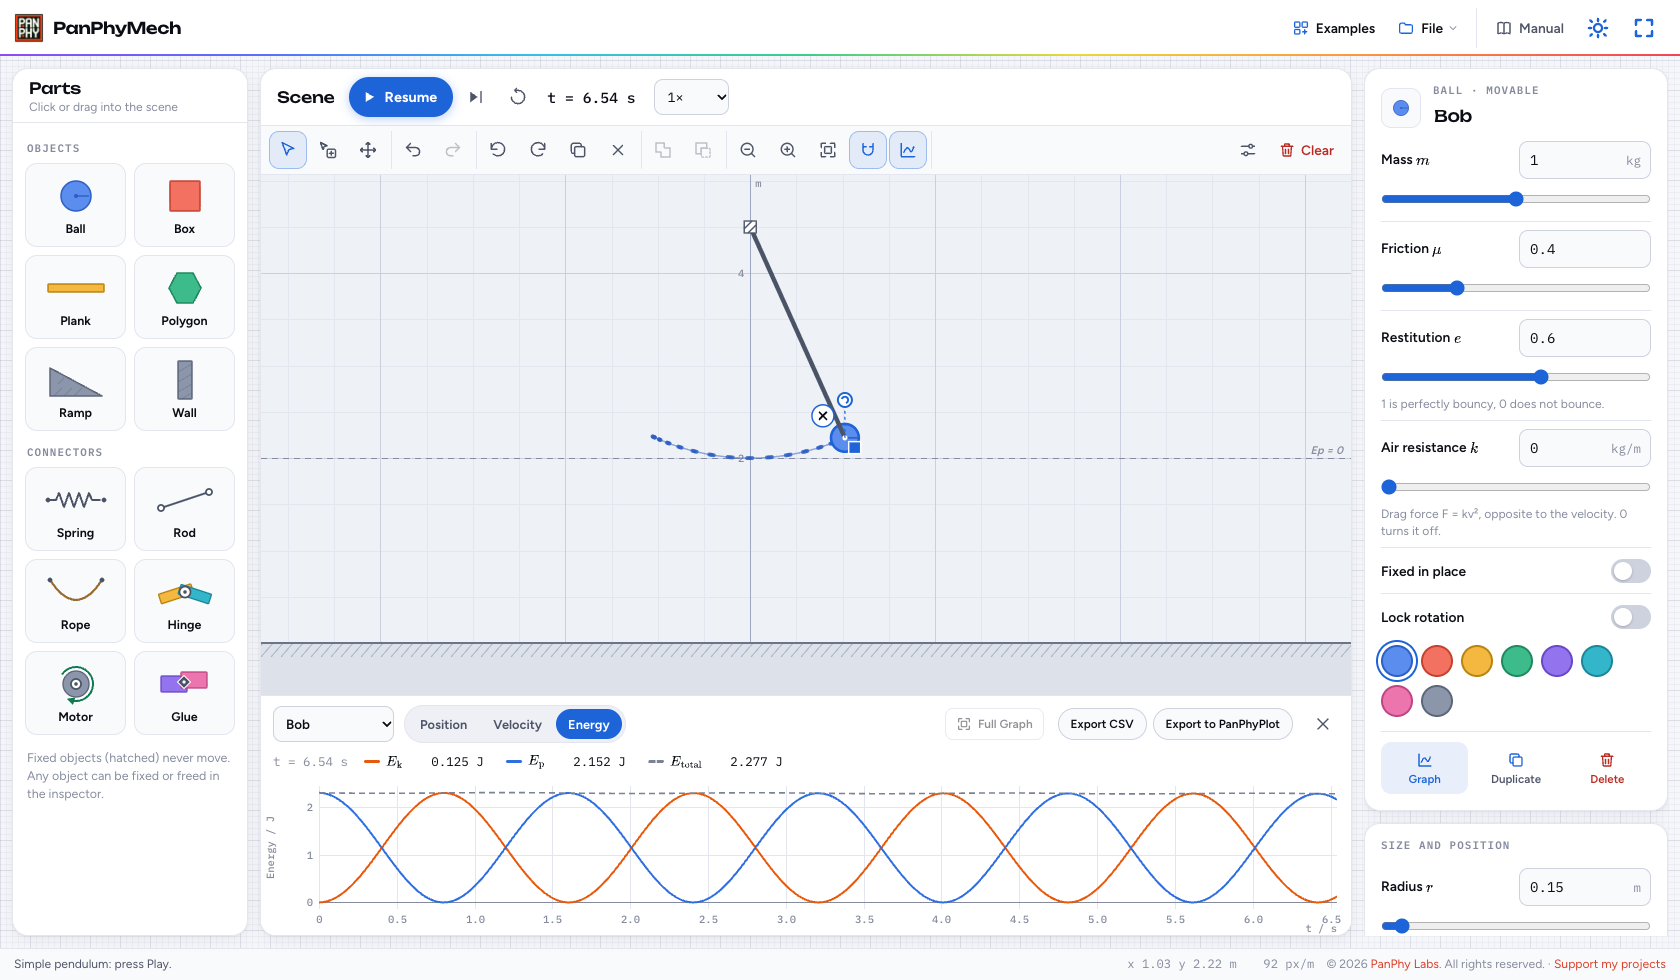
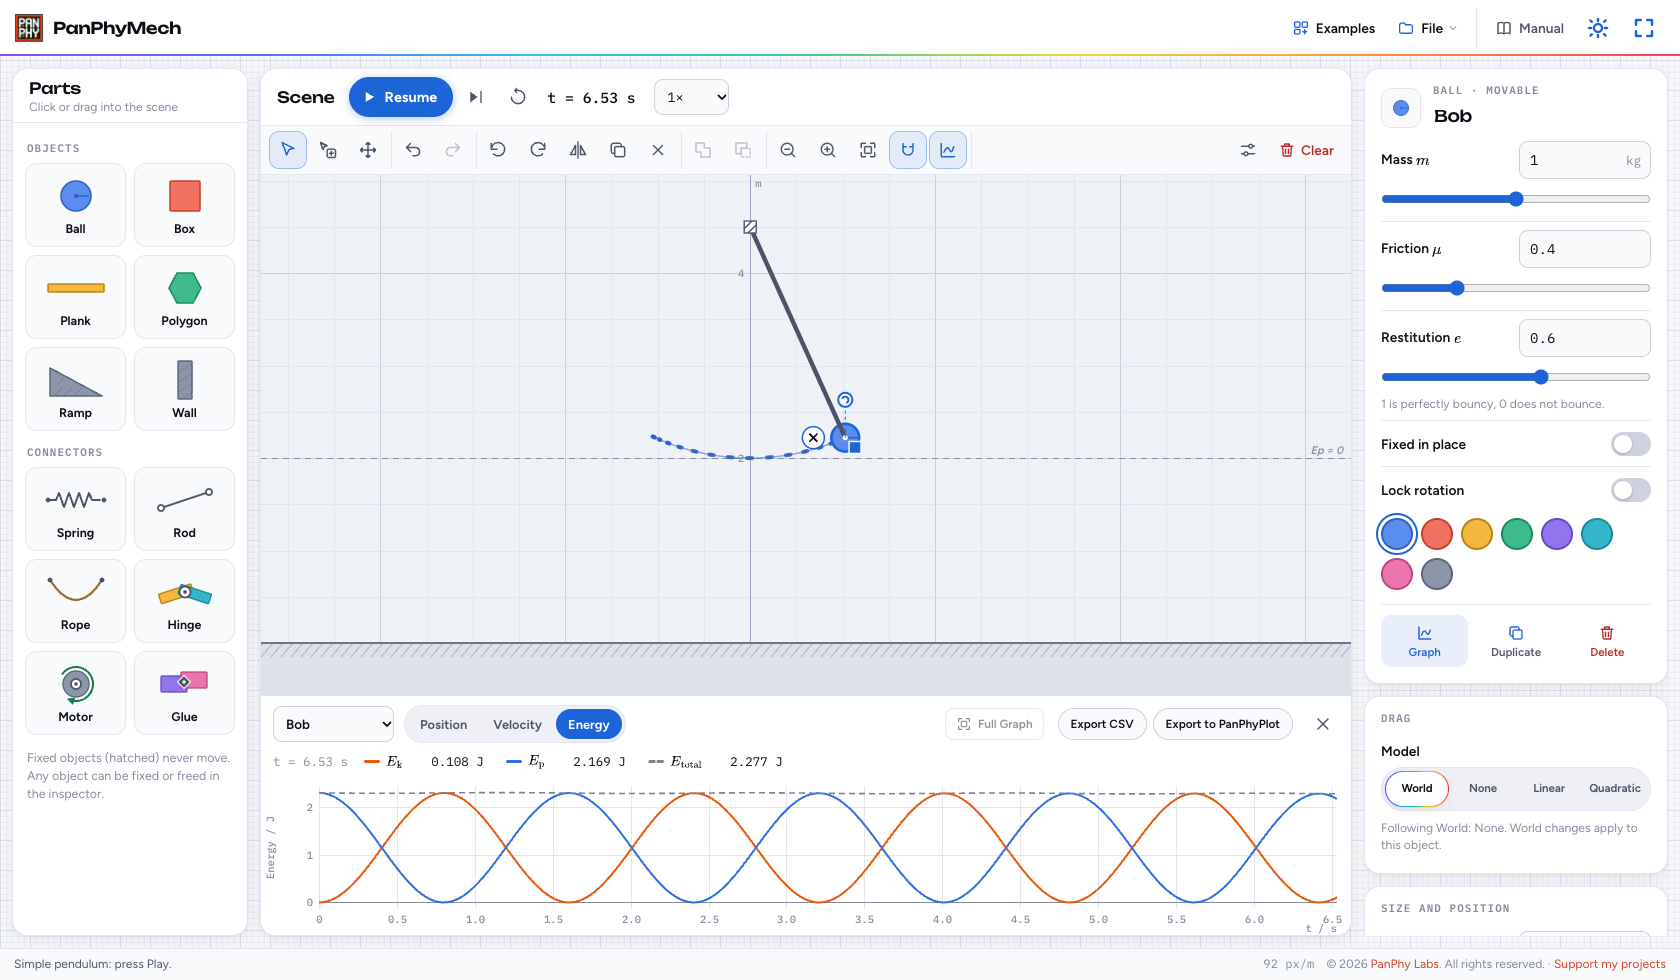
Refresh the PanPhyMech manual screenshots
Recaptured the five light/dark pairs from the current app at 1680 x 980:
the World card now shows its Drag, Floor and Accuracy sections, and the
Inspector shows the separate Drag card.

diff --git a/sw.js b/sw.js
@@ -1,4 +1,4 @@
-const BUILD_ID = '2026-10-31T18:10:50Z';
+const BUILD_ID = '2026-10-31T18:45:22Z';
 const CACHE_PREFIX = 'panphy-labs';
 const PRECACHE_NAME = `${CACHE_PREFIX}-precache-${BUILD_ID}`;
 const RUNTIME_CACHE = `${CACHE_PREFIX}-runtime-${BUILD_ID}`;
